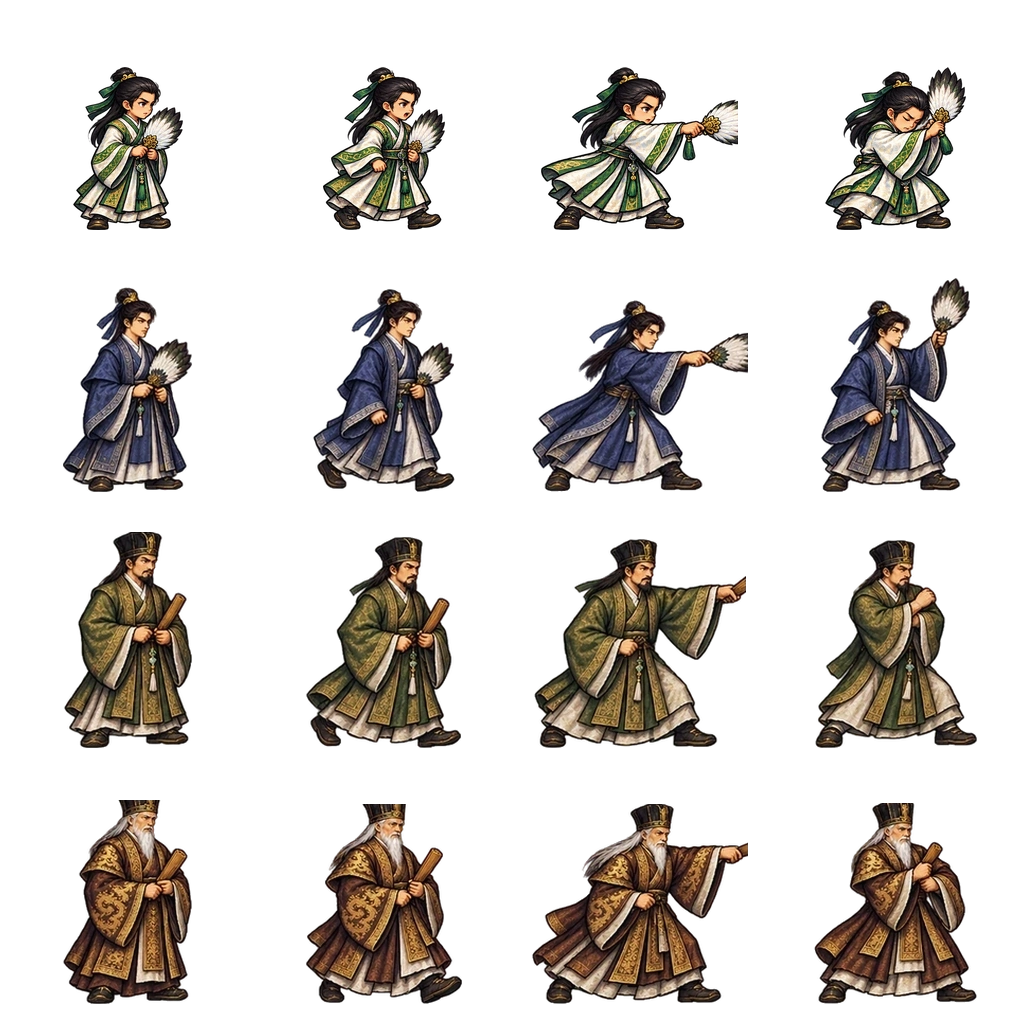
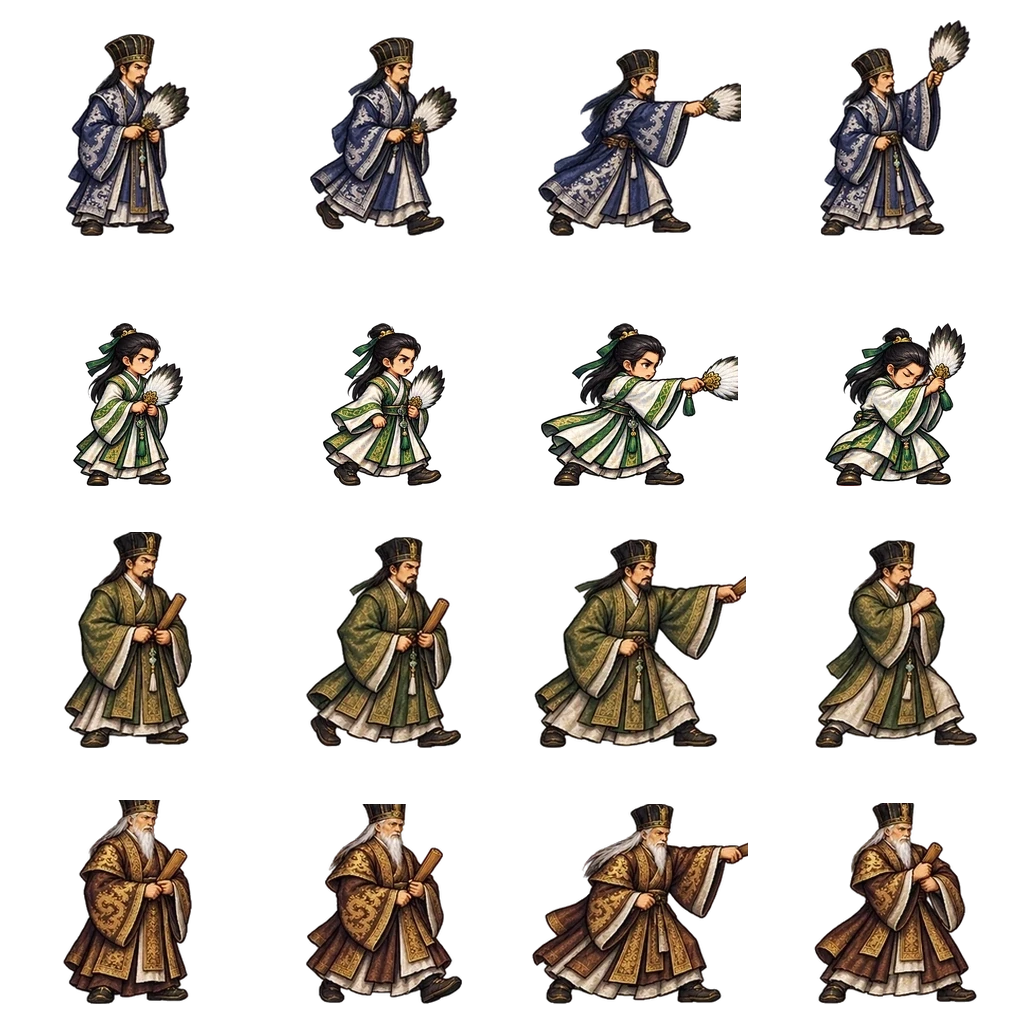
사마의 대결 시트 줄 순서 복구: 성인 사마의(0행)를 되살리고 새 소년 그림을 1행으로, 소년 맞춤 값 갱신
Codex가 새 소년 그림을 0행(성인 사마의 자리)에 넣어 S1-04 이후 성인 사마의 일기토·설전이
소년으로 나오고, 소년 장(S1-01~03)에서는 옛 어른 체형 그림이 그대로 나오던 문제.

Claude-Session: https://claude.ai/code/session_01MpPPA45aaRsErGnvA66if3

diff --git a/packages/web/src/officer-models.ts b/packages/web/src/officer-models.ts
@@ -107,7 +107,7 @@ export function officerDuelMounted(u:OfficerLike){const e=officerEntry(u);return
  * 기마 조운 135 ~ 여포 230) 같은 무대에서 발이 뜨거나 키가 들쭉날쭉했다. 발끝을 230에 맞추고, 도보는 키 182·기마는 205에
  * 가깝게(0.8~1.3배 안에서) 늘이거나 줄인다. 값은 원본 시트를 잰 것이다.
  */
-const DUEL_FIT:Record<string,readonly [number,number]>={sima_yi:[236,202],sima_yi_young:[236,204],sima_lang:[236,216],sima_fang:[236,204],cao_zhen:[236,203],xu_chu:[236,216],ma_chao:[236,203],chen_gong:[235,180],zhou_yu:[236,174],lu_bu:[236,193],zhuge_ke:[229,182],cao_pi:[248,206],lu_fan:[229,183],sun_quan:[230,184],huang_zhong:[230,184],sima_shi:[246,228],sun_shao:[229,183],meng_yan:[230,167],bi_yan:[229,179],zhu_ran:[229,177],sima_zhao:[246,236],wang_ling:[229,163],cao_cao:[248,203],yang_ang:[229,184],meng_da:[229,187],wang_ping:[229,183],gao_xiang:[229,177],zhao_yun:[230,175],lu_meng:[230,176],gongsun_yuan:[230,175],xiang_yu:[236,174],lu_xun:[230,169],wei_yan:[230,176],ma_su:[229,174]};
+const DUEL_FIT:Record<string,readonly [number,number]>={sima_yi:[236,202],sima_yi_young:[230,203],sima_lang:[236,216],sima_fang:[236,204],cao_zhen:[236,203],xu_chu:[236,216],ma_chao:[236,203],chen_gong:[235,180],zhou_yu:[236,174],lu_bu:[236,193],zhuge_ke:[229,182],cao_pi:[248,206],lu_fan:[229,183],sun_quan:[230,184],huang_zhong:[230,184],sima_shi:[246,228],sun_shao:[229,183],meng_yan:[230,167],bi_yan:[229,179],zhu_ran:[229,177],sima_zhao:[246,236],wang_ling:[229,163],cao_cao:[248,203],yang_ang:[229,184],meng_da:[229,187],wang_ping:[229,183],gao_xiang:[229,177],zhao_yun:[230,175],lu_meng:[230,176],gongsun_yuan:[230,175],xiang_yu:[236,174],lu_xun:[230,169],wei_yan:[230,176],ma_su:[229,174]};
 const DUEL_FOOT=230,DUEL_FOOT_H=182,DUEL_MOUNT_H=180;
 function duelFitStyle(id:string){
   const f=DUEL_FIT[id];if(!f)return '';
